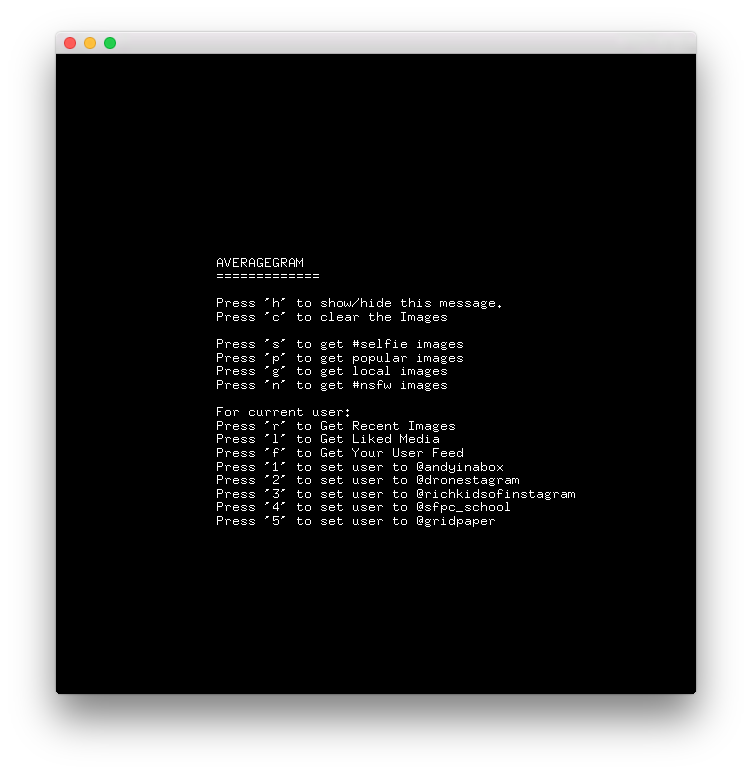
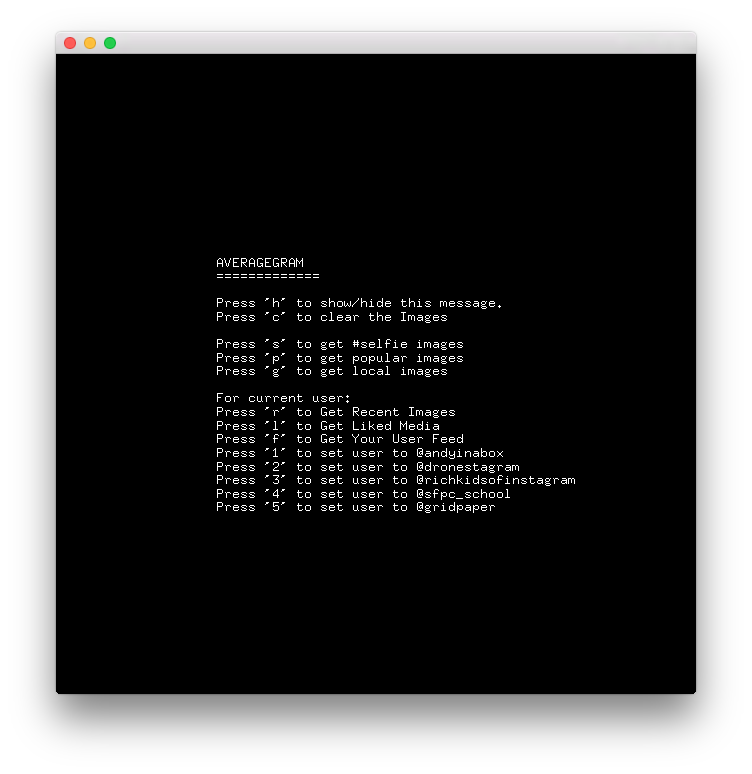
Update menu

diff --git a/src/ofApp.cpp b/src/ofApp.cpp
@@ -90,7 +90,6 @@ void ofApp::draw(){
         info << "Press 's' to get #selfie images" << endl;
         info << "Press 'p' to get popular images" << endl;
         info << "Press 'g' to get local images" << endl;
-        info << "Press 'n' to get #nsfw images" << endl;
 
         info << endl;
         info << "For current user:" << endl;
@@ -172,11 +171,6 @@ void ofApp::keyPressed(int key){
         case 's':
             images.clear();
             instagram.getListOfTaggedObjectsNormal("selfie", imageCount);
-            updateResults();
-            break;
-        case 'n':
-            images.clear();
-            instagram.getListOfTaggedObjectsNormal("nsfw", imageCount);
             updateResults();
             break;
         case 'p':
